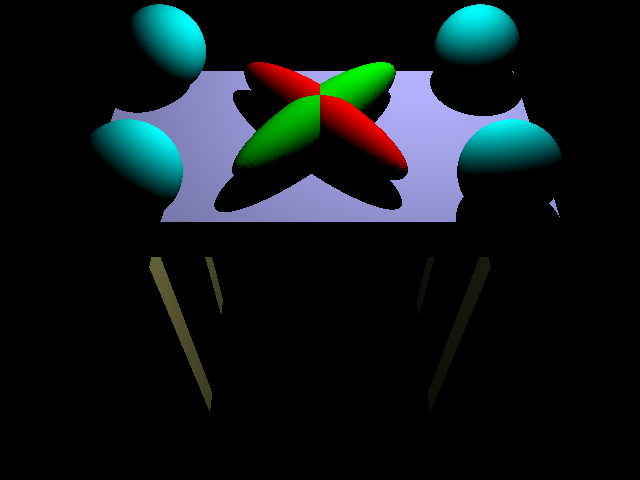
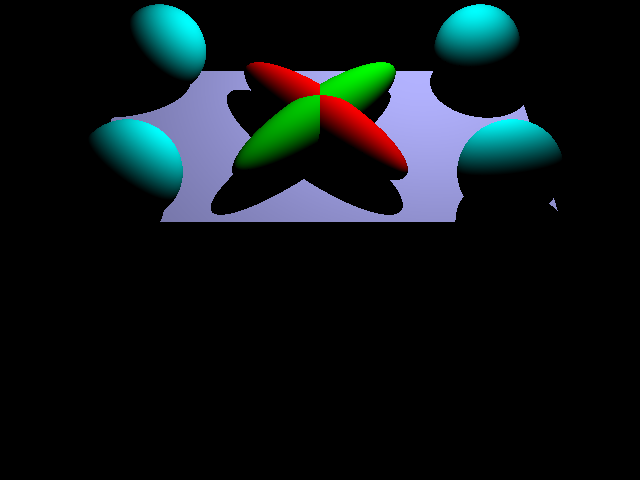
Fixed some reflection and Phong shading issues

diff --git a/Raytracer/Raytracer.cpp b/Raytracer/Raytracer.cpp
@@ -27,10 +27,18 @@ Color Raytracer::shading(LocalGeo &localGeo, BRDF &brdf, Ray lray, Color lcolor)
     
     Color lambert = brdf.kd * lcolor * max(nDotL, 0.0f);
     
-    Vector r = (-l + 2 * nDotL *n).normalize();
-    Vector v = (eye - localGeo.pos).normalize();
+//    Vector r = (-l + 2 * nDotL *n).normalize();
+//    Vector v = (eye - localGeo.pos).normalize();
+//    
+//    Color phong = brdf.ks * lcolor * pow(max(r.dot(v), 0.0), brdf.shininess);
     
-    Color phong = brdf.ks * lcolor * pow(max(r.dot(v), 0.0), brdf.shininess);
+    Vector v = (eye - localGeo.pos).normalize();
+    Vector halfVec = (lray.dir + v).normalize() ;
+    
+    float nDotH = n.dot(halfVec);
+    
+    Color phong = brdf.ks * lcolor * pow(max(nDotH, 0.0f), brdf.shininess);
+
     return lambert + phong;
 }
 
@@ -65,23 +73,32 @@ void Raytracer::trace(Ray& ray, int depth, Color* color, Color component) {
         Color lcolor;
 
         lights[i].generateLightRay(intersection.localGeo, &lray, &lcolor);
+        
+//        float dist = (lights[i].position - intersection.localGeo.pos).norm();
+//        lray.tMin = dist;
 
+        // XXX
+        eye = ray.pos;
+        
         // Check if the light is blocked or not
         if (!primitives.intersectP(lray)) {
             // If not, do shading calculation for this
             // light source
-            *color += component * shading(intersection.localGeo, brdf, lray, lcolor);
+            Color pointColor = shading(intersection.localGeo, brdf, lray, lcolor);
+            *color += component * pointColor;
         }
     }
     
-    // Handle mirror reflection
-    Ray reflected = createReflectRay(intersection.localGeo, ray);
-    Color reflectionColor = Color(0, 0, 0);
-    
-    // Make a recursive call to trace the reflected ray
-    trace(reflected, depth + 1, &reflectionColor, component * brdf.ks);
-    
-    *color += reflectionColor;
+    if (brdf.ks > 0) {
+        // Handle mirror reflection
+        Ray reflected = createReflectRay(intersection.localGeo, ray);
+        Color reflectionColor = Color(0, 0, 0);
+        
+        // Make a recursive call to trace the reflected ray
+        trace(reflected, depth + 1, &reflectionColor, component * brdf.ks);
+        
+        *color += reflectionColor;
+    }
 }
 
 Raytracer::Raytracer(AggregatePrimitive& primitives, vector<Light> &lights, Point eye) {

diff --git a/Raytracer/Scene.cpp b/Raytracer/Scene.cpp
@@ -74,11 +74,6 @@ Scene::Scene(const char* input, const char* output) {
                 if (cmd == "directional") {
                     validinput = readvals(s, 6, values);
                     if (validinput) {
-//                        vec3 posn = vec3(values[0],values[1],values[2]);
-//                        vec3 col = vec3(values[3],values[4],values[5]);
-//                        vec3 dir = vec3(transfstack.top() * vec4(posn, 0), 3);
-//                        Light light = Light(dir,col,0);
-                        
                         Vector direction = Vector(values[0],values[1],values[2]);
                         Color color = Color(values[3],values[4],values[5]);
 
@@ -90,12 +85,6 @@ Scene::Scene(const char* input, const char* output) {
                 else if (cmd == "point") {
                     validinput = readvals(s, 6, values);
                     if (validinput) {
-//                        
-//                        vec3 posn = vec3(values[0],values[1],values[2]);
-//                        vec3 col = vec3(values[3],values[4],values[5]);
-//                        vec3 dir = vec3(transfstack.top() * vec4(posn, 1));
-//                        Light light = Light(dir,col,1,attenuation);
-//                        
                         Point position = Point(values[0],values[1],values[2]);
                         Color color = Color(values[3],values[4],values[5]);
                         
@@ -121,9 +110,6 @@ Scene::Scene(const char* input, const char* output) {
                     if (validinput) {
                         width = values[0];
                         height = values[1];
-                        
-//                        pixels = vec2(values[0],values[1]);
-//                        film = new Film(pixels);
                     }
                 }
                 else if (cmd == "output") {

diff --git a/Raytracer/Triangle.cpp b/Raytracer/Triangle.cpp
@@ -17,7 +17,6 @@ bool Triangle::intersect(Ray& ray, float* thit, LocalGeo* local) {
         
     *thit = (point1.dot(normal) - ray.pos.dot(normal)) / dirDotN;
 
-    // TODO: Check tMax
     Vector point = ray.pos + ray.dir * (*thit);
     
     if (normal.dot((point2 - point1).cross(point - point1)) < 0) {
@@ -46,8 +45,7 @@ bool Triangle::intersectP(Ray& ray) {
         return false;
     
     float thit = (point1.dot(normal) - ray.pos.dot(normal)) / dirDotN;
-    
-    // TODO: Check tMax
+
     Vector point = ray.pos + ray.dir * thit;
     
     if (normal.dot((point2 - point1).cross(point - point1)) < 0) {
@@ -61,8 +59,9 @@ bool Triangle::intersectP(Ray& ray) {
     if (normal.dot((point1 - point3).cross(point - point3)) < 0) {
         return false;
     }
-    
-    return thit > ray.tMin && thit < ray.tMax;
+
+    return thit > ray.tMin;
+//    return thit > ray.tMin && thit < ray.tMax;
 }
 
 Triangle::Triangle(Point point1, Point point2, Point point3) {

diff --git a/Raytracer/Light.cpp b/Raytracer/Light.cpp
@@ -15,15 +15,15 @@ void Light::generateLightRay(LocalGeo& localGeo, Ray* lray, Color* lcolor) {
     switch (type) {
         case LightDirectional:
             lray->pos = localGeo.pos;
-            lray->dir = -direction;
-            lray->tMin = 0.01f;
+            lray->dir = direction.normalize();
+            lray->tMin = 0.001f;
             lray->tMax = FLT_MAX;
             break;
             
         case LightPoint:
             lray->pos = localGeo.pos;
-            lray->dir = position - localGeo.pos;
-            lray->tMin = 0.01f;
+            lray->dir = (position - localGeo.pos).normalize();
+            lray->tMin = 0.001f;
             lray->tMax = 1.0;
             break;
     }

diff --git a/Raytracer/Sphere.cpp b/Raytracer/Sphere.cpp
@@ -78,7 +78,8 @@ bool Sphere::intersectP(Ray& ray) {
         thit = thit1;
     }
     
-    return thit > ray.tMin && thit < ray.tMax;
+    return thit > ray.tMin;
+//    return thit > ray.tMin && thit < ray.tMax;
 }
 
 Sphere::Sphere() {

diff --git a/Raytracer/Sampler.cpp b/Raytracer/Sampler.cpp
@@ -10,8 +10,8 @@
 #include "Sampler.hpp"
 
 bool Sampler::getSample(Sample *sample) {
-//    sample->x = 194.5;
-//    sample->y = 418.5;
+//    sample->x = 190.5;
+//    sample->y = 403.5;
 //    return true;
 
     if (y > height) {

diff --git a/Raytracer/GeometricPrimitive.cpp b/Raytracer/GeometricPrimitive.cpp
@@ -23,7 +23,6 @@ bool GeometricPrimitive::intersect(Ray& ray, float* thit, Intersection* in)  {
 
 bool GeometricPrimitive::intersectP(Ray& ray) {
     Ray oray = (*worldToObj) * ray;
-    
     return shape->intersectP(oray);
 }
 

diff --git a/Raytracer/Color.cpp b/Raytracer/Color.cpp
@@ -25,6 +25,10 @@ Color& Color::operator+=(const Color& other) {
     return *this;
 }
 
+bool Color::operator>(const float other) {
+    return r + g + b > other;
+}
+
 Color::Color() {
 }
 

diff --git a/Raytracer/Color.hpp b/Raytracer/Color.hpp
@@ -23,6 +23,8 @@ public:
 
     Color operator+(const Color& other);
     Color& operator+=(const Color& other);
+
+    bool operator>(const float other);
 };
 
 #endif /* Color_hpp */
